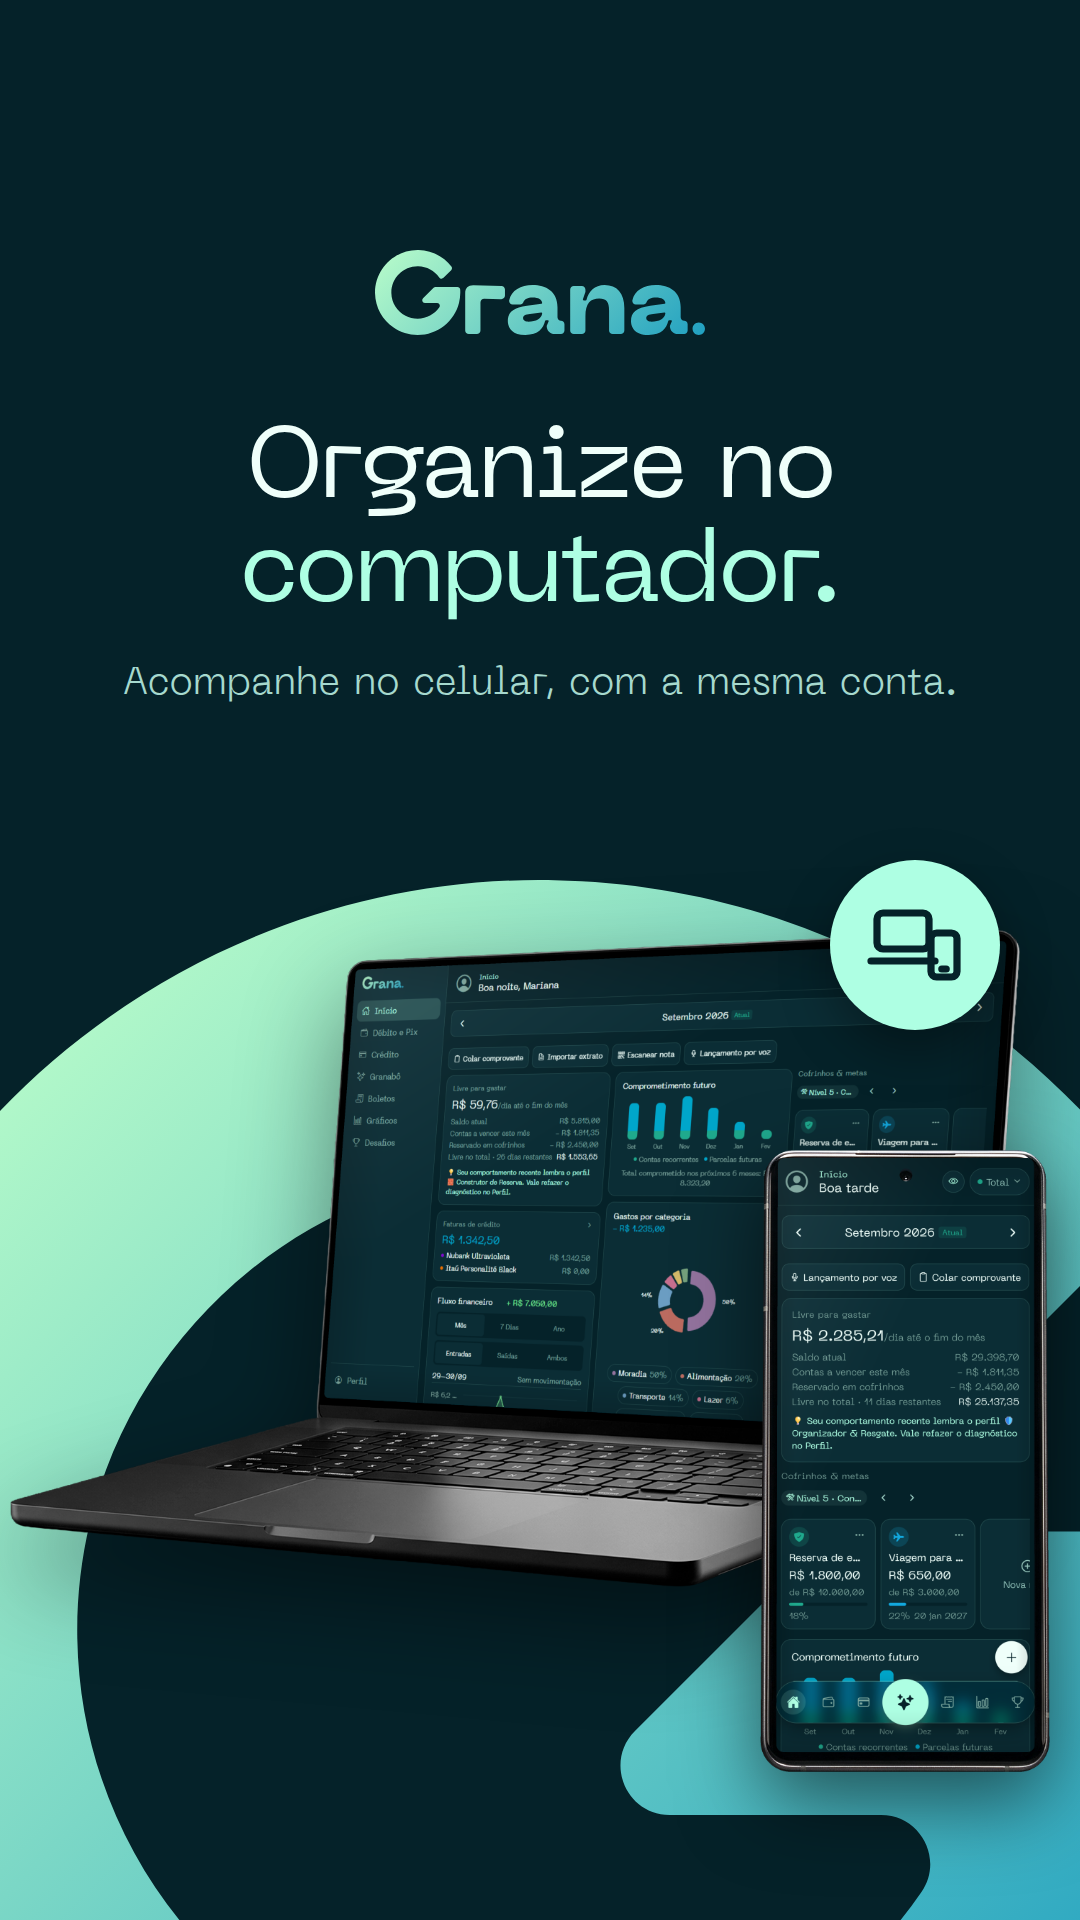
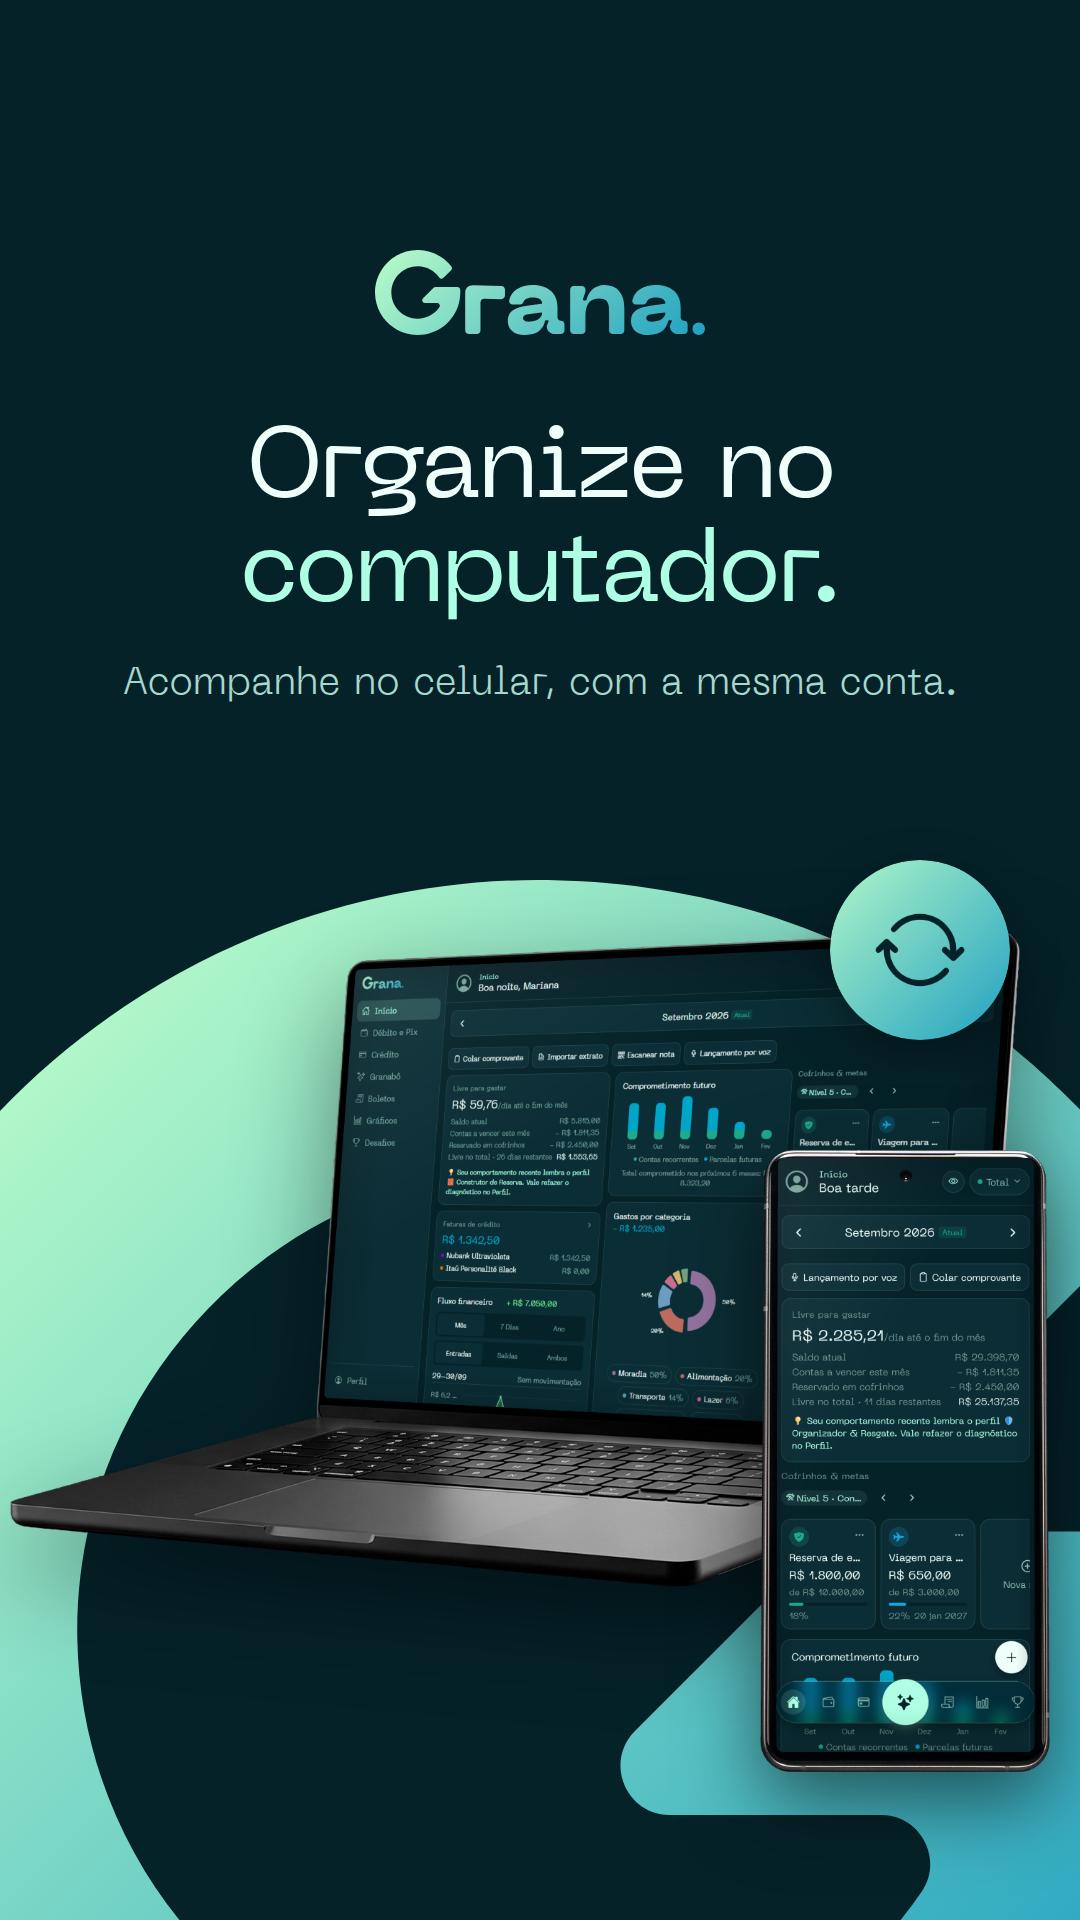
docs(marketing): arsenal de icones (Ionicons do app) e notificacoes reais; Story 2 com icone novo
Claude-Session: https://claude.ai/code/session_01Fv8uFkxWiJMthXkKAtJfu8

Changed region(s): [[0.7639, 0.4375, 0.9472, 0.5625]]

diff --git a/docs/marketing/stories-estilo-referencias/story2.html b/docs/marketing/stories-estilo-referencias/story2.html
@@ -7,7 +7,7 @@
 .h2{position:absolute;left:70px;right:70px;top:660px;text-align:center;font-family:NM;font-weight:300;font-size:38px;line-height:1.3;color:#a6d9ce}
 .note{position:absolute;left:10px;top:930px;width:1010px;filter:drop-shadow(0 40px 50px rgba(0,0,0,.45))}
 .phone{position:absolute;left:760px;top:1150px;width:290px;filter:drop-shadow(0 30px 40px rgba(0,0,0,.55))}
-.badge{position:absolute;left:830px;top:860px;width:170px;height:170px;border-radius:50%;background:#aeffe3;display:flex;align-items:center;justify-content:center;box-shadow:0 20px 50px rgba(0,0,0,.35);z-index:4}
+.badge{position:absolute;left:830px;top:860px;width:180px;height:180px;border-radius:50%;box-shadow:0 20px 50px rgba(0,0,0,.35);z-index:4}
 </style></head><body><div class="st">
 <img class="sym" src="../../../design-system/marca/simbolo-gradiente.svg">
 <img class="logo" src="../../../design-system/marca/logotipo-gradiente.svg">
@@ -15,5 +15,5 @@
 <div class="h2">Acompanhe no celular, com a mesma conta.</div>
 <img class="note" src="../funil-criativos-flat-2026-09/revisao-03/assets/notebook.png">
 <img class="phone" src="../funil-criativos-flat-2026-09/revisao-04/assets/celular-2.png">
-<div class="badge"><svg width="96" height="96" viewBox="0 0 24 24" fill="none" stroke="#052229" stroke-width="1.8" stroke-linecap="round" stroke-linejoin="round"><rect x="2.5" y="4" width="13" height="9" rx="1.5"/><path d="M1 16h16"/><rect x="16" y="9" width="6.5" height="11" rx="1.4"/><path d="M18.7 18h1.1"/></svg></div>
+<img class="badge" src="../arsenal/icones/sincronia-gradiente.png">
 </div></body></html>

diff --git a/docs/marketing/arsenal/gerar.py b/docs/marketing/arsenal/gerar.py
@@ -1,0 +1,63 @@
+import json, os
+from playwright.sync_api import sync_playwright
+G=json.load(open('../../../node_modules/@expo/vector-icons/build/vendor/react-native-vector-icons/glyphmaps/Ionicons.json'))
+ICONES=[('voz','mic'),('voz-contorno','mic-outline'),('colar-comprovante','clipboard-outline'),('qr-code-nota','qr-code-outline'),('recibo','receipt-outline'),('importar-extrato','download-outline'),('lembrete','notifications-outline'),('calendario','calendar-outline'),('carteira','wallet-outline'),('cartao','card-outline'),('graficos','stats-chart-outline'),('categorias','pie-chart-outline'),('granabo','sparkles'),('seguranca','shield-checkmark-outline'),('tempo','time-outline'),('salvo','checkmark-circle'),('recorrente','repeat'),('celular','phone-portrait-outline'),('computador','laptop-outline'),('sincronia','sync-outline'),('desafios','trophy-outline'),('sequencia','flame-outline'),('cafe','cafe-outline'),('mercado','cart-outline'),('noite','moon-outline'),('rapido','flash-outline'),('dinheiro','cash-outline'),('transporte','car-outline')]
+ESTILOS={
+ 'menta':('background:#aeffe3','#052229'),
+ 'petroleo':('background:#0b2d35;border:6px solid #2a5660','#aeffe3'),
+ 'gradiente':('background:linear-gradient(135deg,#b0f7c9,#22a1c1)','#052229'),
+ 'contorno':('background:transparent;border:6px solid #aeffe3','#aeffe3'),
+}
+CSS='''@font-face{font-family:Ion;src:url(Ionicons.ttf)}html,body{margin:0;background:transparent}
+.b{width:512px;height:512px;border-radius:50%;display:flex;align-items:center;justify-content:center;box-sizing:border-box}
+.g{font-family:Ion;font-size:270px;line-height:1}'''
+N=[ # (arquivo, titulo, corpo, hora, acao)
+ ('gasto-salvo-padaria','Pão na padaria · R$ 3,57','Alimentação · Débito · salvo no Grana.','agora','Desfazer'),
+ ('gasto-salvo-almoco','Almoço · R$ 32,00','Alimentação · Pix · salvo no Grana.','agora','Desfazer'),
+ ('gasto-salvo-corrida','Corrida de app · R$ 18,90','Transporte · Pix · salvo no Grana.','agora','Desfazer'),
+ ('gasto-salvo-mercado','Mercado · R$ 86,40','Alimentação · Débito · salvo no Grana.','agora','Desfazer'),
+ ('conta-salva-luz','Conta de luz · R$ 142,30','Conta a pagar · vence 10/10 · salvo no Grana.','agora','Desfazer'),
+ ('noite-fechando-o-dia','Fechando o dia?','Teve algum gasto hoje? Se teve, dá pra registrar agora <e>👀</e>','21:30',None),
+ ('noite-antes-de-dormir','Antes de dormir','Com o celular na mão, que tal ver se falta algum lançamento de hoje? <e>😉</e>','22:00',None),
+ ('noite-minutinho','Um minutinho só','Se ficou algo de hoje pra registrar, o Grana. está aqui <e>🌙</e>','21:30',None),
+ ('almoco-pausa','Pausa do meio-dia','Teve algo para registrar? Dá para fazer agora ou depois <e>🍴</e>','12:30',None),
+ ('sequencia-viva','Sua sequência segue viva <e>🔥</e>','São 12 dias seguidos. Se tiver algo de hoje, dá pra continuar por aqui.','20:00',None),
+ ('sequencia-constancia','Boa constância','12 dias seguidos registrando. Hoje pode ser mais um <e>🔥</e>','20:00',None),
+ ('pequenos-cafe','Um café também conta','Se teve um café ou lanche hoje, ele também cabe no Grana. <e>☕</e>','16:00',None),
+ ('pequenos-somam','Gastos pequenos somam','Gasto pequeno é o que mais escapa da memória. Bora garantir que ele entrou no controle? <e>💸</e>','18:00',None),
+ ('dica-voz','Sabia que dá pra falar?','Dá pra lançar um gasto só falando com o Grana. Experimente a voz <e>🎙</e>','10:00',None),
+ ('dica-nota-fiscal','Nota fiscal em segundos','Escaneie o QR Code da nota fiscal e deixa o Grana. preencher o lançamento sozinho <e>📷</e>','10:00',None),
+ ('voltar-simples','Voltar é simples','Quer retomar pelo próximo lançamento? O resto pode esperar <e>👋</e>','19:00',None),
+ ('conta-vence-3-dias','Conta vence em 3 dias','Internet vence em 3 dias.','09:00',None),
+ ('conta-vence-hoje','Conta vence hoje','Aluguel vence hoje.','09:00',None),
+ ('fatura-vence-3-dias','Fatura vence em 3 dias','Fatura do Cartão do dia a dia.','09:00',None),
+ ('cartao-limite-80','Cartão do dia a dia chegou a 80% do limite','Fique de olho pra não estourar a fatura deste mês.','agora',None),
+ ('voz-salvo-no-aparelho','Lançamento salvo no aparelho','Será sincronizado com sua conta ao abrir o Grana. com conexão.','agora',None),
+]
+NCSS='''@font-face{font-family:Rb;src:url(roboto-400.woff2);font-weight:100 900}@font-face{font-family:Emo;src:url(emoji.woff2)}
+html,body{margin:0;background:transparent}#w{display:inline-block;padding:10px 10px 24px}
+.nt{width:392px;background:#2b2d31;border-radius:26px;padding:16px 16px 12px;box-shadow:0 8px 20px rgba(0,0,0,.4);font-family:Rb;box-sizing:border-box}
+.row{display:flex;gap:14px}.ico{width:40px;height:40px;border-radius:50%;background:#052229;flex:none;display:flex;align-items:center;justify-content:center}
+.ico img{width:34px;height:34px}.col{flex:1;min-width:0}.l1{display:flex;align-items:baseline;gap:8px;color:#e3e3e6}
+.app{font-size:13px;color:#a9abb0}.tt{font-weight:500;font-size:16px;color:#e3e3e6;line-height:21px;margin-top:2px}.bb{font-size:14px;color:#c4c6cb;margin-top:2px;line-height:20px}
+.ac{display:inline-block;margin:8px 0 0 42px;font-size:14px;font-weight:500;color:#9cd3c9;padding:6px 12px}e{font-family:Emo;font-style:normal}'''
+os.makedirs('icones',exist_ok=True); os.makedirs('notificacoes',exist_ok=True)
+with sync_playwright() as p:
+    b=p.chromium.launch(executable_path='/opt/pw-browsers/chromium-1194/chrome-linux/chrome',args=['--allow-file-access-from-files'])
+    pg=b.new_page(viewport={'width':512,'height':512})
+    for nome,glyph in ICONES:
+        ch=chr(G[glyph])
+        for est,(bg,cor) in ESTILOS.items():
+            open('i.html','w').write(f'<html><head><style>{CSS}</style></head><body><div class="b" style="{bg}"><span class="g" style="color:{cor}">{ch}</span></div></body></html>')
+            pg.goto('file://'+os.path.abspath('i.html')); pg.evaluate('document.fonts.ready')
+            pg.screenshot(path=f'icones/{nome}-{est}.png',omit_background=True)
+        open('i.html','w').write(f'<html><head><style>{CSS}</style></head><body><div class="b"><span class="g" style="color:#aeffe3;font-size:420px">{ch}</span></div></body></html>')
+        pg.goto('file://'+os.path.abspath('i.html')); pg.evaluate('document.fonts.ready'); pg.screenshot(path=f'icones/{nome}-simbolo-menta.png',omit_background=True)
+    pg2=b.new_page(viewport={'width':412,'height':300},device_scale_factor=3)
+    for arq,tt,bb,hh,ac in N:
+        acao=f'<span class="ac">{ac}</span>' if ac else ''
+        open('n.html','w').write(f'''<html><head><style>{NCSS}</style></head><body><div id="w"><div class="nt"><div class="row"><div class="ico"><img src="android-icon-monochrome.png"></div><div class="col"><div class="l1"><span class="app">Grana. · {hh}</span></div><div class="tt">{tt}</div><div class="bb">{bb}</div></div></div>{acao}</div></div></body></html>''')
+        pg2.goto('file://'+os.path.abspath('n.html')); pg2.evaluate('document.fonts.ready'); pg2.wait_for_timeout(100)
+        pg2.locator('#w').screenshot(path=f'notificacoes/{arq}.png',omit_background=True)
+    b.close()
+print('ok')

diff --git a/docs/marketing/arsenal/README.md b/docs/marketing/arsenal/README.md
@@ -1,0 +1,43 @@
+# Arsenal de ícones e notificações para os criativos (27/09/2026)
+
+Pedido do autor: uma biblioteca de notificações variadas e de ícones para compor Stories, estáticos e vídeos. Tudo é PNG com fundo transparente e foi feito sem créditos da ElevenLabs.
+
+## Ícones (`icones/`)
+
+- **Conjunto:** são os **mesmos ícones do app**, o Ionicons (`@expo/vector-icons`, licença MIT). Assim nenhum ícone "não existe no Grana.", que foi a crítica ao ícone desenhado à mão no Story 2.
+- **28 ícones:** voz, voz-contorno, colar-comprovante, qr-code-nota, recibo, importar-extrato, lembrete, calendario, carteira, cartao, graficos, categorias, granabo, seguranca, tempo, salvo, recorrente, celular, computador, sincronia, desafios, sequencia, cafe, mercado, noite, rapido, dinheiro, transporte.
+- **5 estilos por ícone,** todos em 512×512:
+  - `-menta`: círculo menta `#AEFFE3` com o ícone em petróleo;
+  - `-petroleo`: círculo `#0B2D35` com borda e o ícone em menta;
+  - `-gradiente`: círculo no gradiente da marca, com o ícone em petróleo;
+  - `-contorno`: só a borda menta;
+  - `-simbolo-menta`: só o ícone, em menta, sem círculo.
+- **Prévia:** `previa-icones.png`.
+
+## Notificações (`notificacoes/`)
+
+São 21 notificações no estilo do Android 14 escuro, em 3× (≈ 1236 px de largura), com o ícone "G." do app.
+
+- **Textos reais,** tirados do código:
+  - gasto salvo: `notificarSucesso` em `lib/widget-voz-notificacoes.ts`, com o botão "Desfazer";
+  - lembretes de fim de dia, almoço, sequência, gastos pequenos, dicas e "voltar": `lib/notification-catalog.ts`;
+  - conta, fatura e limite do cartão: `lib/notifications.ts`;
+  - "Lançamento salvo no aparelho": modo offline da voz.
+- **Só os dados são fictícios:**
+  - valores, como R$ 3,57 e R$ 32,00;
+  - nomes de contas, como Internet, Aluguel e Conta de luz;
+  - o nome do cartão, "Cartão do dia a dia";
+  - a sequência de "12 dias".
+- **Prévia:** `previa-notificacoes.png`.
+
+## Para criar mais
+
+1. Abra o `gerar.py` e acrescente uma linha em `ICONES` (qualquer nome do Ionicons) ou em `N` (título, corpo, hora e ação).
+2. Para notificação nova, tire o texto do código. Não invente mensagem que o app não manda.
+3. Rode `python3 gerar.py` numa pasta com `Ionicons.ttf`, `roboto-400.woff2`, `emoji.woff2` (Noto Color Emoji, recorte com os emojis usados) e `android-icon-monochrome.png`.
+
+## Regras
+
+- Nenhuma notificação menciona banco ou marca real.
+- Nada de preço.
+- O Story 2 (`../stories-estilo-referencias/`) já usa o `sincronia-gradiente.png` no lugar do ícone antigo.
